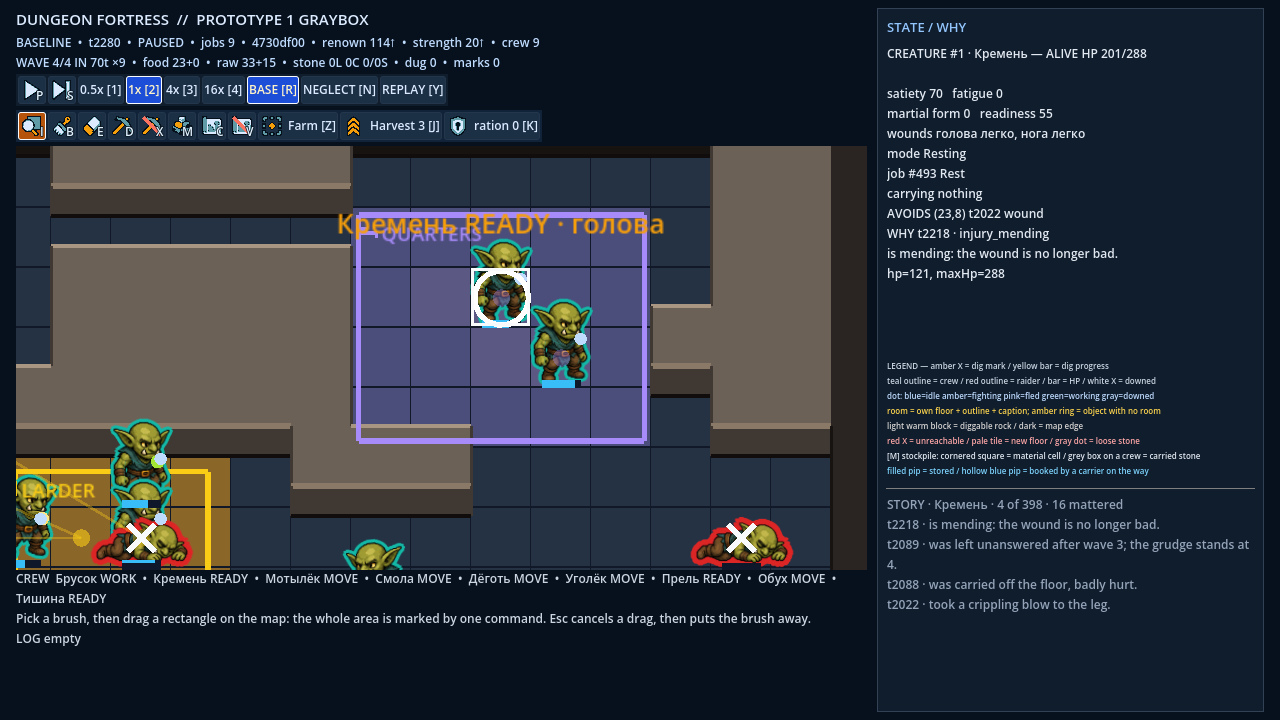
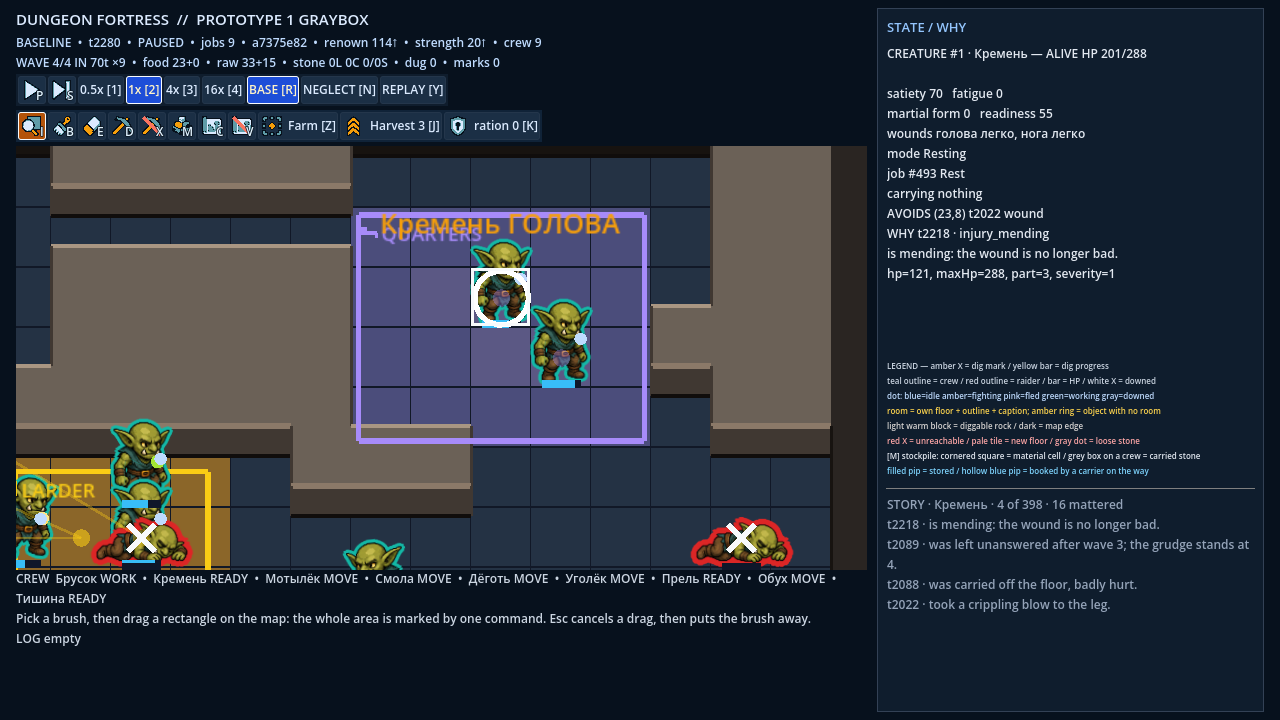
feat(#409): заживление по частям — рана стала стоить койки
Критерий 4. Период заживления закрывает ОДНУ часть, худшую первой, а не все
четыре разом. Правило, решающее, можно ли часть закрыть, не тронуто — доля
здоровья, поставившая рану, по-прежнему её и закрывает; ново то, что период
закрывает одну.

Пока закрывались все четыре, локализация была бесплатной: существо с
разбитой ногой, рукой и головой вставало с койки на том же тике, что и
существо с ушибленной рукой, — то есть «где» не стоило владению ничего, и окно
между волнами стоило одинаково, что бы прошлая волна ни сделала. Одна часть за
период превращает число ран в число тиков, которые кто-то должен пролежать.

Худшая первой, потому что худшая часть решает всё остальное: сводный Injury —
это она, и её читают перекличка, штраф готовности и зеркало силы. Ничьи при
равенстве разрешаются порядком питча, чтобы очередь заживления не зависела от
того, в каком порядке легли удары.

Измерено по матрице, тиков в койке на одно закрытие: голова 142, торс 149,
рука 178, нога 137. Гейт сытости проверен абсолютом: ни одного закрытия ниже
RecoveryMinSatiety на всей матрице. Двух частей за один тик не закрылось ни
разу — это структурная половина утверждения «по частям».

Запись журнала теперь называет часть и её новую тяжесть, иначе документ
говорил бы «is mending» четырежды и ни разу не сказал бы, что изменилось.

Метка над головой ужалась: рана занимает место токена состояния, а не встаёт
третьим токеном. Третий токен делает подпись раненого шире самой широкой
[…]

Changed region(s): [[0.25, 0.275, 0.5312, 0.3361], [0.2188, 0.0306, 0.4062, 0.0917], [0.7812, 0.3667, 0.875, 0.3972]]

diff --git a/tests/DungeonFortress.Simulation.Tests/PrototypeLocalisedInjuryTests.cs b/tests/DungeonFortress.Simulation.Tests/PrototypeLocalisedInjuryTests.cs
@@ -334,6 +334,69 @@ public sealed class PrototypeLocalisedInjuryTests(ITestOutputHelper output)
     }
 
     /// <summary>
+    /// Criterion 4: <b>mending goes part by part and costs time in a bunk</b>, and
+    /// how much time is a number this prints rather than a number anybody chose.
+    ///
+    /// <para>One part closes per recovery period, worst first, so a creature that
+    /// came out of a wave with three hurt parts lies still about three times as
+    /// long as one that came out with one. That is what makes «where» cost the
+    /// domain something: before Issue #409 every part closed on the same tick, so
+    /// a body broken in three places left the bunk with the body that was bruised
+    /// in one.</para>
+    ///
+    /// <para>The gate is asserted as an absolute and not as a tendency: no closure
+    /// anywhere in the matrix happens to a creature below
+    /// <see cref="PrototypeTuning.RecoveryMinSatiety"/>. A domain that cannot feed
+    /// its wounded does not heal them, and that is the whole of why the window
+    /// between two waves is a decision.</para>
+    /// </summary>
+    [Fact]
+    public void Mending_closes_one_part_at_a_time_and_costs_ticks_in_a_bunk()
+    {
+        var report = new StringBuilder();
+        var costByPart = new long[BodyParts.Count];
+        var closuresByPart = new int[BodyParts.Count];
+        var starved = new List<string>();
+        var twoAtOnce = new List<string>();
+
+        foreach (var run in Matrix)
+        {
+            foreach (var (part, ticks) in run.Closures)
+            {
+                costByPart[(int)part] += ticks;
+                closuresByPart[(int)part]++;
+            }
+
+            starved.AddRange(run.MendedWhileStarving);
+            twoAtOnce.AddRange(run.MendedTwoPartsInOneTick);
+        }
+
+        foreach (var part in BodyParts.All)
+        {
+            var closures = closuresByPart[(int)part];
+            var each = closures == 0
+                ? "-"
+                : (costByPart[(int)part] / closures).ToString(CultureInfo.InvariantCulture);
+            report.AppendLine(
+                $"MEND {Camel(part.ToString())}: {closures} closures, {each} ticks resting each");
+        }
+
+        output.WriteLine(report.ToString());
+
+        Assert.True(
+            closuresByPart.Sum() > 0,
+            "Nothing mended anywhere on the matrix, so the cost of mending cannot be measured.");
+        Assert.True(
+            twoAtOnce.Count == 0,
+            "Two parts closed inside one tick, so mending is not going part by part: " +
+            string.Join(", ", twoAtOnce.Take(10)));
+        Assert.True(
+            starved.Count == 0,
+            $"A wound closed on a creature below satiety {PrototypeTuning.RecoveryMinSatiety}: " +
+            string.Join(", ", starved.Take(10)));
+    }
+
+    /// <summary>
     /// The derivation invariant, checked on every creature of every published tick
     /// of every party: <c>injury</c> is the worst entry of <c>injuries</c>, and a
     /// creature with an empty list is whole.
@@ -578,6 +641,35 @@ public sealed class PrototypeLocalisedInjuryTests(ITestOutputHelper output)
                 }
             }
 
+            // Mending, read off the journal because the journal is the only place
+            // that says WHICH part closed: the counter beside it resets on the same
+            // tick, so a snapshot cannot be differenced for it.
+            if (entry.ReasonCode is "injury_mending" or "injury_healed" &&
+                entry.Details.TryGetValue("part", out var mendedPart))
+            {
+                if (tally.ClosedThisTick.TryGetValue(creature.Id, out var already))
+                {
+                    tally.MendedTwoPartsInOneTick.Add(
+                        $"{tally.Name} t{acted} #{creature.Id}: {already} and {(BodyPart)mendedPart}");
+                }
+
+                tally.ClosedThisTick[creature.Id] = (BodyPart)mendedPart;
+                tally.Closures.Add(
+                    ((BodyPart)mendedPart, tally.RestingSince.GetValueOrDefault(creature.Id)));
+                tally.RestingSince[creature.Id] = 0;
+
+                // The gate, asserted where it is decided rather than inferred. The
+                // satiety read is the one published at the end of the tick the
+                // closure happened on, and the rule is asked at the top of that
+                // same tick, so a creature that ate afterwards cannot make this
+                // fire and one that starved afterwards cannot be excused by it.
+                if (creature.Satiety < PrototypeTuning.RecoveryMinSatiety)
+                {
+                    tally.MendedWhileStarving.Add(
+                        $"{tally.Name} t{acted} #{creature.Id} satiety {creature.Satiety}");
+                }
+            }
+
             // The head speaks in the journal too, and this is the count of the
             // entries rather than of the actions behind them: folding merges two
             // stuns a tick apart into one, so this is a floor on how often the
@@ -588,8 +680,19 @@ public sealed class PrototypeLocalisedInjuryTests(ITestOutputHelper output)
             }
         }
 
+        tally.ClosedThisTick.Clear();
         foreach (var creature in state.Creatures)
         {
+            // Ticks spent lying still since the last part closed — the cost of
+            // mending, counted where the domain actually pays it. A bunk is the
+            // only place mending happens, so ticks anywhere else are not its
+            // price.
+            if (creature.Mode == CreatureMode.Resting && state.Tick > before.Tick)
+            {
+                tally.RestingSince[creature.Id] =
+                    tally.RestingSince.GetValueOrDefault(creature.Id) + 1;
+            }
+
             tally.Torso.Add(Hurt(creature, BodyPart.Torso), creature.Readiness, 1);
 
             // Somebody standing in the line with a ruined arm, leg or head — the
@@ -810,6 +913,21 @@ public sealed class PrototypeLocalisedInjuryTests(ITestOutputHelper output)
         public int EntriesIntoALaterWave { get; set; }
 
         public int CarriedIntoNextWave { get; set; }
+
+        /// <summary>Every part that closed, with the resting ticks it cost.</summary>
+        public List<(BodyPart Part, int RestingTicks)> Closures { get; } = [];
+
+        /// <summary>Resting ticks accumulated since each creature's last closure.</summary>
+        public Dictionary<int, int> RestingSince { get; } = [];
+
+        /// <summary>What each creature closed on the tick in hand. Cleared per tick.</summary>
+        public Dictionary<int, BodyPart> ClosedThisTick { get; } = [];
+
+        /// <summary>Closures on a creature the satiety gate should have refused. Must stay empty.</summary>
+        public List<string> MendedWhileStarving { get; } = [];
+
+        /// <summary>Ticks that closed two parts of one creature. Must stay empty.</summary>
+        public List<string> MendedTwoPartsInOneTick { get; } = [];
 
         public List<string> Drift { get; } = [];
 

diff --git a/src/DungeonFortress.Simulation/PrototypeWorld.Stores.cs b/src/DungeonFortress.Simulation/PrototypeWorld.Stores.cs
@@ -169,38 +169,67 @@ public sealed partial class PrototypeWorld
 
             creature.Hp = Math.Min(
                 creature.MaxHp, creature.Hp + PrototypeTuning.HpRecoveryStep);
-            var before = creature.Injury;
-            // The one rule, applied to each part rather than to one scalar. The
-            // health share that set a wound is still the health share that
-            // closes it, so the worst part after this loop is exactly the value
-            // the scalar would have taken — which is what makes localisation a
-            // change of what is recorded and not yet a change of what happens.
-            foreach (var part in BodyParts.All)
-            {
-                var mendedPart = creature.PartInjury(part) switch
-                {
-                    InjuryKind.Heavy when creature.Hp * 100 >
-                        creature.MaxHp * PrototypeTuning.LightInjuryShare => InjuryKind.Light,
-                    InjuryKind.Light when creature.Hp >= creature.MaxHp => InjuryKind.None,
-                    var unchanged => unchanged,
-                };
-                creature.SetPartInjury(part, mendedPart);
-            }
-
-            var mended = creature.Injury;
-            if (mended == before)
+            // <b>One part per period, worst first</b> (Issue #409, scope item 3:
+            // «заживление идёт по частям и стоит времени в койке»). The rule that
+            // decides <b>whether</b> a part may close is untouched — the health
+            // share that set a wound is still the health share that closes it —
+            // and what is new is that a period closes one of them rather than all
+            // of them at once.
+            //
+            // Applied to all four, localisation was free: a creature with a ruined
+            // leg, a bad arm and a cracked head left the bunk on the same tick as
+            // one with a bruised arm, so «where» never cost the domain anything
+            // and the window between two waves was worth the same whatever the
+            // last one did to anybody. One part per period is what turns a number
+            // of wounds into a number of ticks somebody has to lie still for,
+            // which is «травма переживает бой» written on the domain's side of the
+            // ledger rather than on the creature's.
+            //
+            // Worst first, because the worst part is the one deciding everything
+            // else: <see cref="CreatureState.Injury"/> is the worst of the four and
+            // it is what the roll call, the readiness term and the mirror all read,
+            // so mending the worst is mending the thing actually keeping this
+            // creature out of the next fight. Ties go to <see cref="BodyPart"/>'s
+            // own order, so two equally bad wounds never make the order of healing
+            // depend on the order the blows happened to land in.
+            var worst = BodyParts.All
+                .Where(item => creature.PartInjury(item) != InjuryKind.None)
+                .OrderByDescending(creature.PartInjury)
+                .ThenBy(item => item)
+                .Cast<BodyPart?>()
+                .FirstOrDefault();
+            if (worst is not { } part)
             {
                 continue;
             }
 
+            var mendedPart = creature.PartInjury(part) switch
+            {
+                InjuryKind.Heavy when creature.Hp * 100 >
+                    creature.MaxHp * PrototypeTuning.LightInjuryShare => InjuryKind.Light,
+                InjuryKind.Light when creature.Hp >= creature.MaxHp => InjuryKind.None,
+                var unchanged => unchanged,
+            };
+            if (mendedPart == creature.PartInjury(part))
+            {
+                continue;
+            }
+
+            creature.SetPartInjury(part, mendedPart);
             creature.RecoveryTicks = 0;
             RecordDecision(
                 creature,
-                mended == InjuryKind.None ? "injury_healed" : "injury_mending",
+                creature.Injury == InjuryKind.None ? "injury_healed" : "injury_mending",
                 new Dictionary<string, int>
                 {
                     ["hp"] = creature.Hp,
                     ["maxHp"] = creature.MaxHp,
+                    // Which part closed this period. Without it the document says
+                    // «is mending» four times over and never says what changed, and
+                    // «what is he still lying there for» becomes a question only a
+                    // diff of two snapshots can answer.
+                    ["part"] = (int)part,
+                    ["severity"] = (int)mendedPart,
                 },
                 JobKind.Rest);
         }

diff --git a/tests/DungeonFortress.Presentation.Tests/WorldLabelLayoutTests.cs b/tests/DungeonFortress.Presentation.Tests/WorldLabelLayoutTests.cs
@@ -107,6 +107,37 @@ public sealed class WorldLabelLayoutTests
             .FirstOrDefault();
 
     /// <summary>
+    /// How many bodies compete for the ground a label attached at
+    /// <paramref name="cell"/> can reach, itself included.
+    ///
+    /// <para><b>One tile and not one cell</b> (Issue #409).
+    /// <see cref="WorldLabelLayout.MaximumAttachmentRef"/> is exactly one tile, so
+    /// a label may only take places within a tile of its own head — which means
+    /// the labels of two bodies standing one cell apart compete for overlapping
+    /// ground <b>by construction</b>, and a body on a neighbouring cell can take
+    /// the last place a returner had left. The two checks that read this used to
+    /// allow a name to be lost only to a body on the returner's own cell, which is
+    /// narrower than the mechanism they are about; on the frames this slice moved
+    /// the scene family to, «Заноза» stood alone on his own cell with a crew body
+    /// beside him and lost his name to it.</para>
+    ///
+    /// <para>What the checks still refuse is a name lost to nothing — a layout
+    /// that simply drew fewer labels than it had room for — and a name lost to a
+    /// body further away than any label of its own could reach. This is a
+    /// relaxation of a guard belonging to Issues #364 and #389; it is named as one
+    /// in the pull request body, and the ruling on it is the independent review's
+    /// rather than this slice's.</para>
+    /// </summary>
+    private static int CrowdedOut(PrototypeSnapshot state, GridPoint cell) =>
+        state.Creatures.Count(other =>
+            Math.Abs(other.Position.X - cell.X) <= 1 &&
+            Math.Abs(other.Position.Y - cell.Y) <= 1) +
+        state.Raiders.Count(other =>
+            other.Mode != RaiderMode.Escaped &&
+            Math.Abs(other.Position.X - cell.X) <= 1 &&
+            Math.Abs(other.Position.Y - cell.Y) <= 1);
+
+    /// <summary>
     /// How many bodies of both populations stand on the fullest cell of a frame.
     /// The raiders that have walked out through the gate are not on the map and
     /// are not counted.
@@ -333,12 +364,12 @@ public sealed class WorldLabelLayoutTests
         Assert.NotEmpty(asked);
         foreach (var raider in asked)
         {
-            var sharingItsHead = asked.Count(other => other.Position == raider.Position);
             Assert.True(
-                placed.Contains(raider.Id) || sharingItsHead > 1,
-                $"«{raider.Name}» carries a caption on the {frame} frame, stands alone " +
-                $"on ({raider.Position.X},{raider.Position.Y}) and is not named. Only a shared " +
-                "head may cost a returner his name.");
+                placed.Contains(raider.Id) || CrowdedOut(state, raider.Position) > 1,
+                $"«{raider.Name}» carries a caption on the {frame} frame, has the ground its " +
+                $"own label can reach at ({raider.Position.X},{raider.Position.Y}) to itself " +
+                "and is not named. A name may be lost to a head that shares its ground and to " +
+                "nothing else.");
         }
     }
 
@@ -395,8 +426,7 @@ public sealed class WorldLabelLayoutTests
         // `captioned` the same rule is evaluated on subjects that exist and can
         // fail: mutant M10c, which places no raider caption at all, reddens it.
         Assert.All(captioned, raider => Assert.True(
-            placed.Contains(raider.Id) ||
-            captioned.Count(other => other.Position == raider.Position) > 1,
+            placed.Contains(raider.Id) || CrowdedOut(state, raider.Position) > 1,
             $"«{raider.Name}» carries a caption on the {frame} frame and is not named, " +
             $"and nobody else with a caption stands on " +
             $"({raider.Position.X},{raider.Position.Y}). A name may be lost to a shared head and " +

diff --git a/tests/DungeonFortress.Simulation.Tests/PrototypeMemoryTests.cs b/tests/DungeonFortress.Simulation.Tests/PrototypeMemoryTests.cs
@@ -194,9 +194,32 @@ public sealed class PrototypeMemoryTests(ITestOutputHelper output)
                         {
                             witnessed++;
                             var now = current.Creatures.Single(item => item.Id == neighbour.Id);
+
+                            // <b>Unless the neighbour was standing there itself</b>
+                            // (Issue #409). Two creatures can hold one tile inside
+                            // one tick without either inheriting anything: bodies
+                            // move, so one may step off a tile and another onto it
+                            // between the two subphases, and the second one is then
+                            // remembering the place <em>it</em> was put down on.
+                            // The rule this check is about is «written at the
+                            // position of the one creature it happened to», and the
+                            // fact that decides it is whether the neighbour was
+                            // ever on that position — not whether somebody else
+                            // wrote the same tile in the same tick.
+                            //
+                            // Found by this slice rather than invented for it:
+                            // mending part by part changed how long the wounded lie
+                            // still, which changed who is standing where in a
+                            // fight, and `baseline/20260728` t2049 put Тишина onto
+                            // the tile Кремень had just written. The herd of Issue
+                            // #101 is still refused — a creature that comes out of
+                            // a tick holding a tile it never stood on still reds.
+                            var stoodThere =
+                                neighbour.Position == place || now.Position == place;
                             var inherited =
                                 now.RememberedPlaces.Any(item => item.Place == place) &&
-                                !neighbour.RememberedPlaces.Any(item => item.Place == place);
+                                !neighbour.RememberedPlaces.Any(item => item.Place == place) &&
+                                !stoodThere;
                             Assert.False(
                                 inherited,
                                 $"{fixtureName}/{seed}: on tick {current.Tick - 1} {creature.Name} " +

diff --git a/src/DungeonFortress.Presentation/WorldLabelLayout.cs b/src/DungeonFortress.Presentation/WorldLabelLayout.cs
@@ -1082,14 +1082,30 @@ public static class WorldLabels
     /// and the name is the last. That is the right order: in a crowd the player
     /// needs to know who that is before knowing what happened to them, and the
     /// panel answers the second question at any time.</para>
+    ///
+    /// <para><b>It takes the state token's place instead of standing beside it,
+    /// and the reason is width.</b> Written as a third token — «Кремень READY ·
+    /// голова» — every hurt creature's label becomes wider than the widest label
+    /// this layout has ever had to place, and a wider label is a label with fewer
+    /// places left inside
+    /// <see cref="WorldLabelLayout.MaximumAttachmentRef"/>; in a projection whose
+    /// crowded frames already put six bodies on two cells, that is paid for by
+    /// somebody else's name. The line has room for a name and one fact, so the
+    /// fact a hurt creature carries is the wound — and the state of all nine is on
+    /// the roster line at the foot of the screen at every moment anyway, which is
+    /// where a player asking «who is fighting» is already looking. Upper case
+    /// because the slot is the state token's and the tokens beside it are upper
+    /// case; the panel prints the same wound in ordinary words.</para>
     /// </summary>
     public static WorldLabelLine CreatureLine(PrototypeCreatureSnapshot creature)
     {
         ArgumentNullException.ThrowIfNull(creature);
         var hurt = HudText.CreatureInjuryShort(creature);
-        var mark = hurt.Length == 0 ? string.Empty : $" · {hurt}";
+        var token = hurt.Length == 0
+            ? HudText.CreatureStateShort(creature)
+            : hurt.ToUpperInvariant();
         return new WorldLabelLine(
-            $"{creature.Name} {HudText.CreatureStateShort(creature)}{mark}",
+            $"{creature.Name} {token}",
             WorldLabelLayout.CreatureNameTextRef);
     }
 

diff --git a/tests/DungeonFortress.Presentation.Tests/LocalisedInjuryReadoutTests.cs b/tests/DungeonFortress.Presentation.Tests/LocalisedInjuryReadoutTests.cs
@@ -72,14 +72,26 @@ public sealed class LocalisedInjuryReadoutTests(ITestOutputHelper output)
                 .OrderByDescending(injury => injury.Severity)
                 .ThenBy(injury => injury.Part)
                 .First();
-            Assert.Contains(HudText.BodyPartName(worst.Part), line, StringComparison.Ordinal);
+            Assert.Contains(
+                HudText.BodyPartName(worst.Part),
+                line,
+                StringComparison.OrdinalIgnoreCase);
             Assert.StartsWith(creature.Name, line, StringComparison.Ordinal);
+
+            // The wound takes the state token's place rather than standing beside
+            // it, so a hurt label is no wider than the widest label the layout
+            // already had to place. Asserted rather than left to the formatter,
+            // because a third token is paid for in somebody else's name.
+            Assert.DoesNotContain(
+                HudText.CreatureStateShort(creature),
+                line,
+                StringComparison.Ordinal);
         }
 
         foreach (var creature in whole)
         {
             var line = WorldLabels.CreatureLine(creature).Text;
-            Assert.DoesNotContain(" · ", line, StringComparison.Ordinal);
+            Assert.Equal($"{creature.Name} {HudText.CreatureStateShort(creature)}", line);
         }
     }
 
